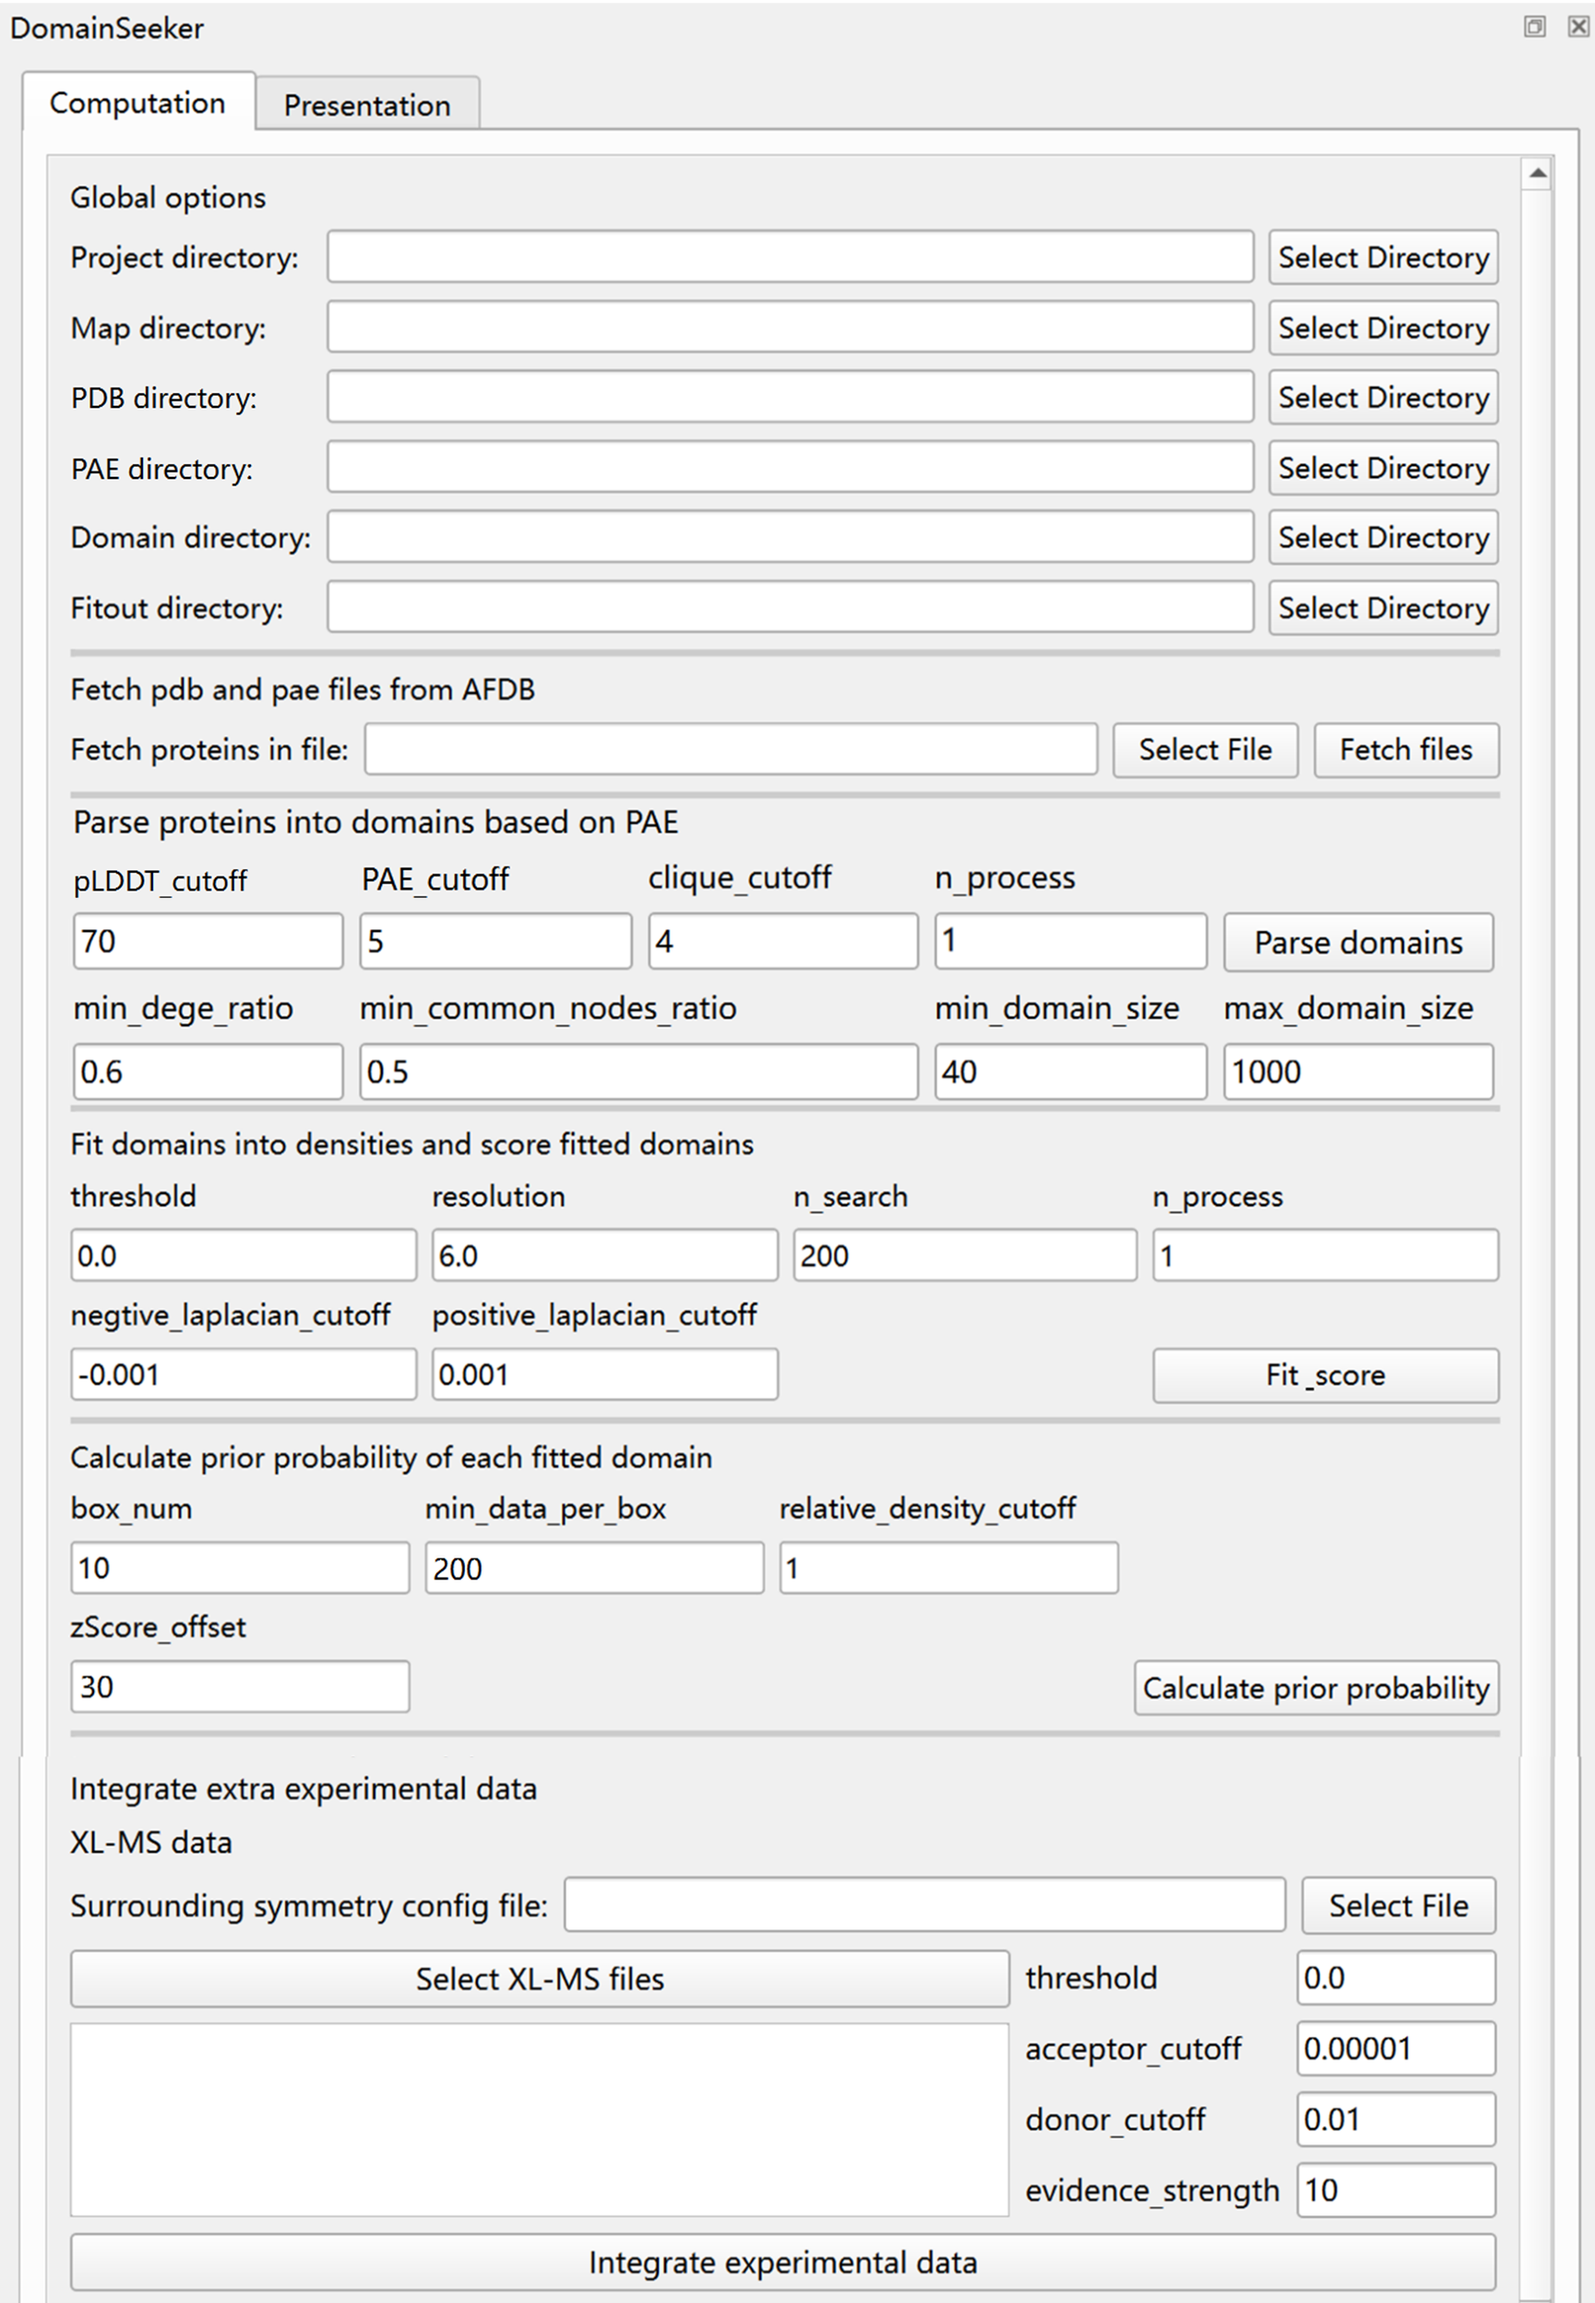
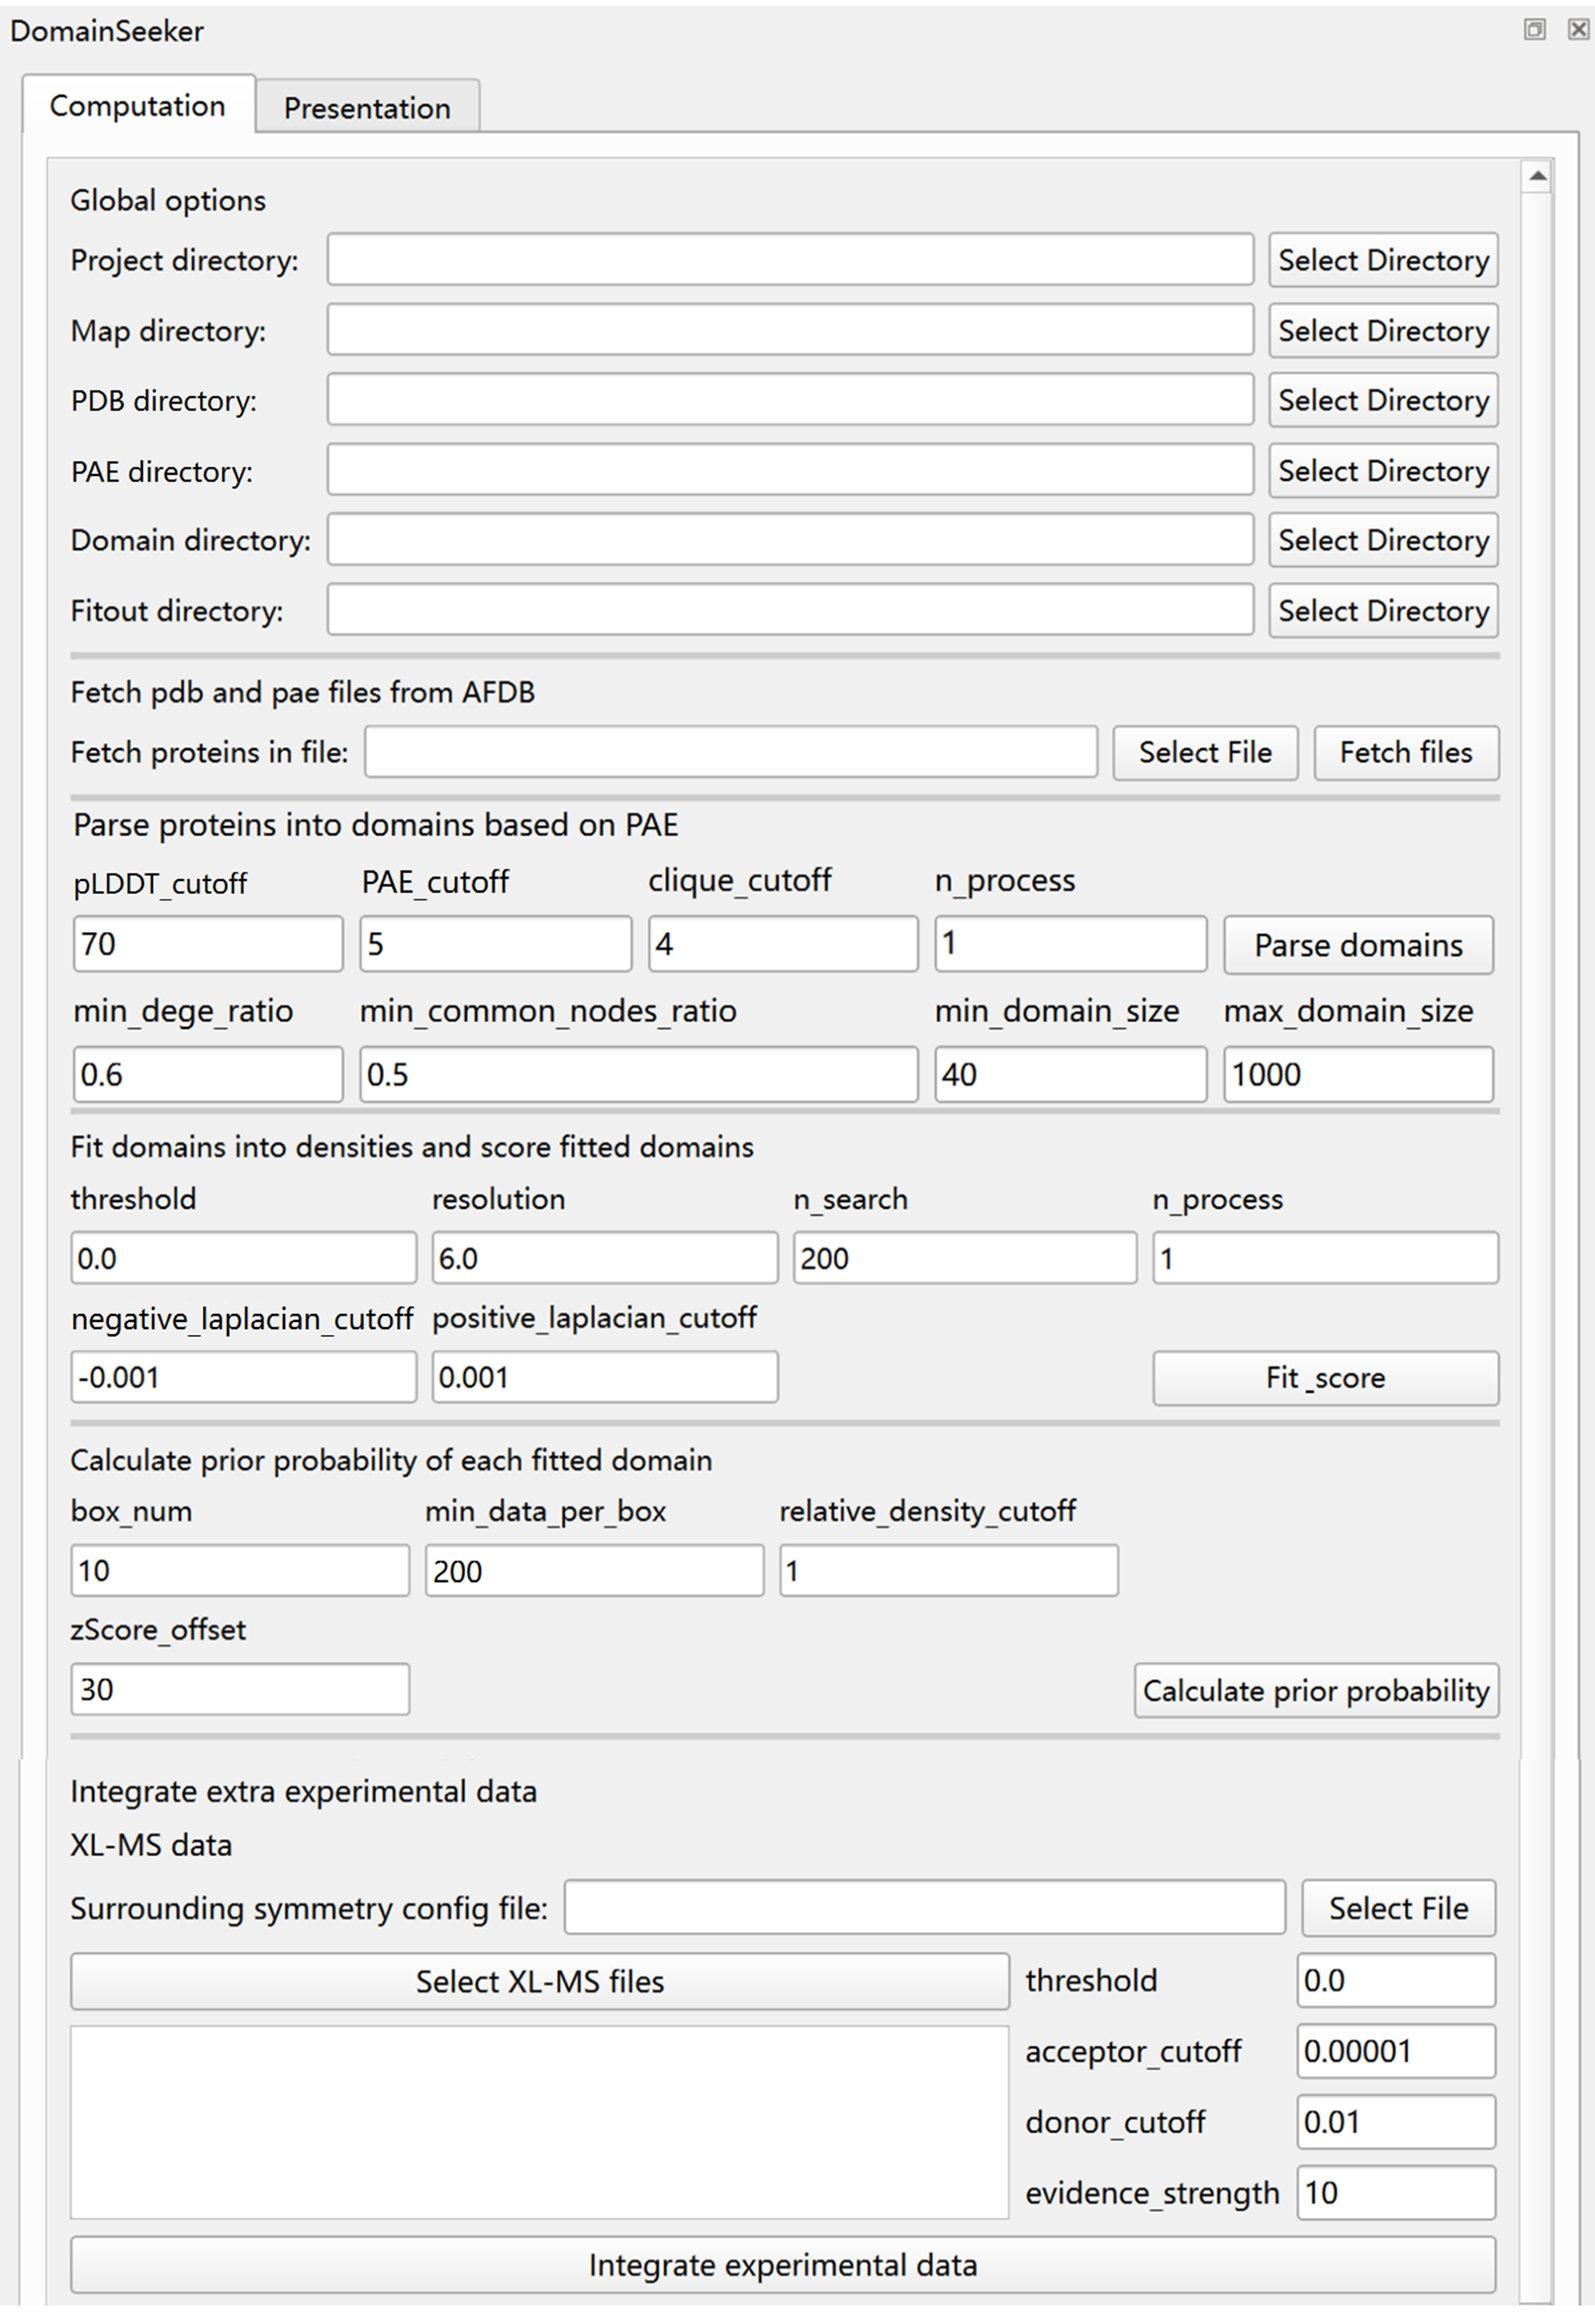
fix: typo negtive→negative in code, UI label, and docs

diff --git a/DomainSeeker_plugin/src/fit_with_chimerax.py b/DomainSeeker_plugin/src/fit_with_chimerax.py
@@ -50,7 +50,7 @@ resolutions=sys.argv[5]
 
 n_search=int(sys.argv[6])
 
-negtive_laplacian_cutoff=float(sys.argv[7])
+negative_laplacian_cutoff=float(sys.argv[7])
 positive_laplacian_cutoff=float(sys.argv[8])
 fit_map_laplacian_cutoff_low=-2
 fit_map_laplacian_cutoff_high=15
@@ -153,8 +153,8 @@ def get_fit_map_mat(u,transformation_matrix,resolution,density_param_dict):
 def get_scores_overlap(u,transformation_matrix,ref_map_mat_laplacian,resolution,density_param_dict):
     fit_map_mat=get_fit_map_mat(u,transformation_matrix,resolution,density_param_dict)
     fit_map_mat_laplacian=scipy.ndimage.convolve(fit_map_mat,laplacian_kernel,mode='constant')
-    sel=(ref_map_mat_laplacian<negtive_laplacian_cutoff)*(fit_map_mat_laplacian<fit_map_laplacian_cutoff_low)
-    sel_ref=(ref_map_mat_laplacian<negtive_laplacian_cutoff)+(ref_map_mat_laplacian>positive_laplacian_cutoff)
+    sel=(ref_map_mat_laplacian<negative_laplacian_cutoff)*(fit_map_mat_laplacian<fit_map_laplacian_cutoff_low)
+    sel_ref=(ref_map_mat_laplacian<negative_laplacian_cutoff)+(ref_map_mat_laplacian>positive_laplacian_cutoff)
     sel_fit=(fit_map_mat_laplacian<fit_map_laplacian_cutoff_low)+(fit_map_mat_laplacian>fit_map_laplacian_cutoff_high)
     sel2=sel_ref*sel_fit
     overlap_volume=np.sum(sel)
@@ -274,7 +274,7 @@ if __name__=="__main__":
         f.write(f"{domain_dir=}\n"
                +f"{ref_map_path=}\n"
                +f"{ref_map_threshold=}\n"
-               +f"{negtive_laplacian_cutoff=}\n"
+               +f"{negative_laplacian_cutoff=}\n"
                +f"{positive_laplacian_cutoff=}\n"
                +f"{resolution=}\n"
                +f"{fit_map_laplacian_cutoff_low=}\n"

diff --git a/DomainSeeker_plugin/src/tool.py b/DomainSeeker_plugin/src/tool.py
@@ -262,7 +262,7 @@ class DomainSeeker(ToolInstance):
 
         neg_cutoff_text = QLineEdit()
         neg_cutoff_text.setText("-0.001")
-        body.addWidget(QLabel("negtive_laplacian_cutoff"), 2, 0)
+        body.addWidget(QLabel("negative_laplacian_cutoff"), 2, 0)
         body.addWidget(neg_cutoff_text, 3, 0)
 
         pos_cutoff_text = QLineEdit()
@@ -1139,7 +1139,7 @@ class DomainSeeker(ToolInstance):
                     maximum_domain_length]
         self.run_detatched_subprocess(arg_list)
 
-    def _fit_and_score(self, project_directory, densities_dir, threshold, resolution, n_search, negtive_laplacian_cutoff, positive_laplacian_cutoff , n_process, domains_dir = "", fitout_dir = ""):
+    def _fit_and_score(self, project_directory, densities_dir, threshold, resolution, n_search, negative_laplacian_cutoff, positive_laplacian_cutoff , n_process, domains_dir = "", fitout_dir = ""):
         # Check if the project directory is valid, if not, raise an error
         if not project_directory or not os.path.exists(project_directory):
             self.session.logger.error(f"Project directory {project_directory} does not exist")
@@ -1174,7 +1174,7 @@ class DomainSeeker(ToolInstance):
                   threshold,
                   resolution,
                   n_search,
-                  negtive_laplacian_cutoff,
+                  negative_laplacian_cutoff,
                   positive_laplacian_cutoff,
                   n_process]
         self.run_detatched_subprocess(arg_list)

diff --git a/README.md b/README.md
@@ -279,7 +279,7 @@ Optional parameters default to: pLDDT_cutoff=70, PAE_cutoff=5, clique_cutoff=4, 
 ### Fit domains into densities and score fitted domains
 
 ```
-python fit_with_chimerax.py domain_dir map_dir fitout_dir threshold resolution n_search negtive_laplacian_cutoff positive_laplacian_cutoff n_process
+python fit_with_chimerax.py domain_dir map_dir fitout_dir threshold resolution n_search negative_laplacian_cutoff positive_laplacian_cutoff n_process
 ```
 
 `threshold` and `resolution` can each be either a single float (applied to all densities) or a JSON file path mapping density names (without `.mrc` extension) to per-density values.
